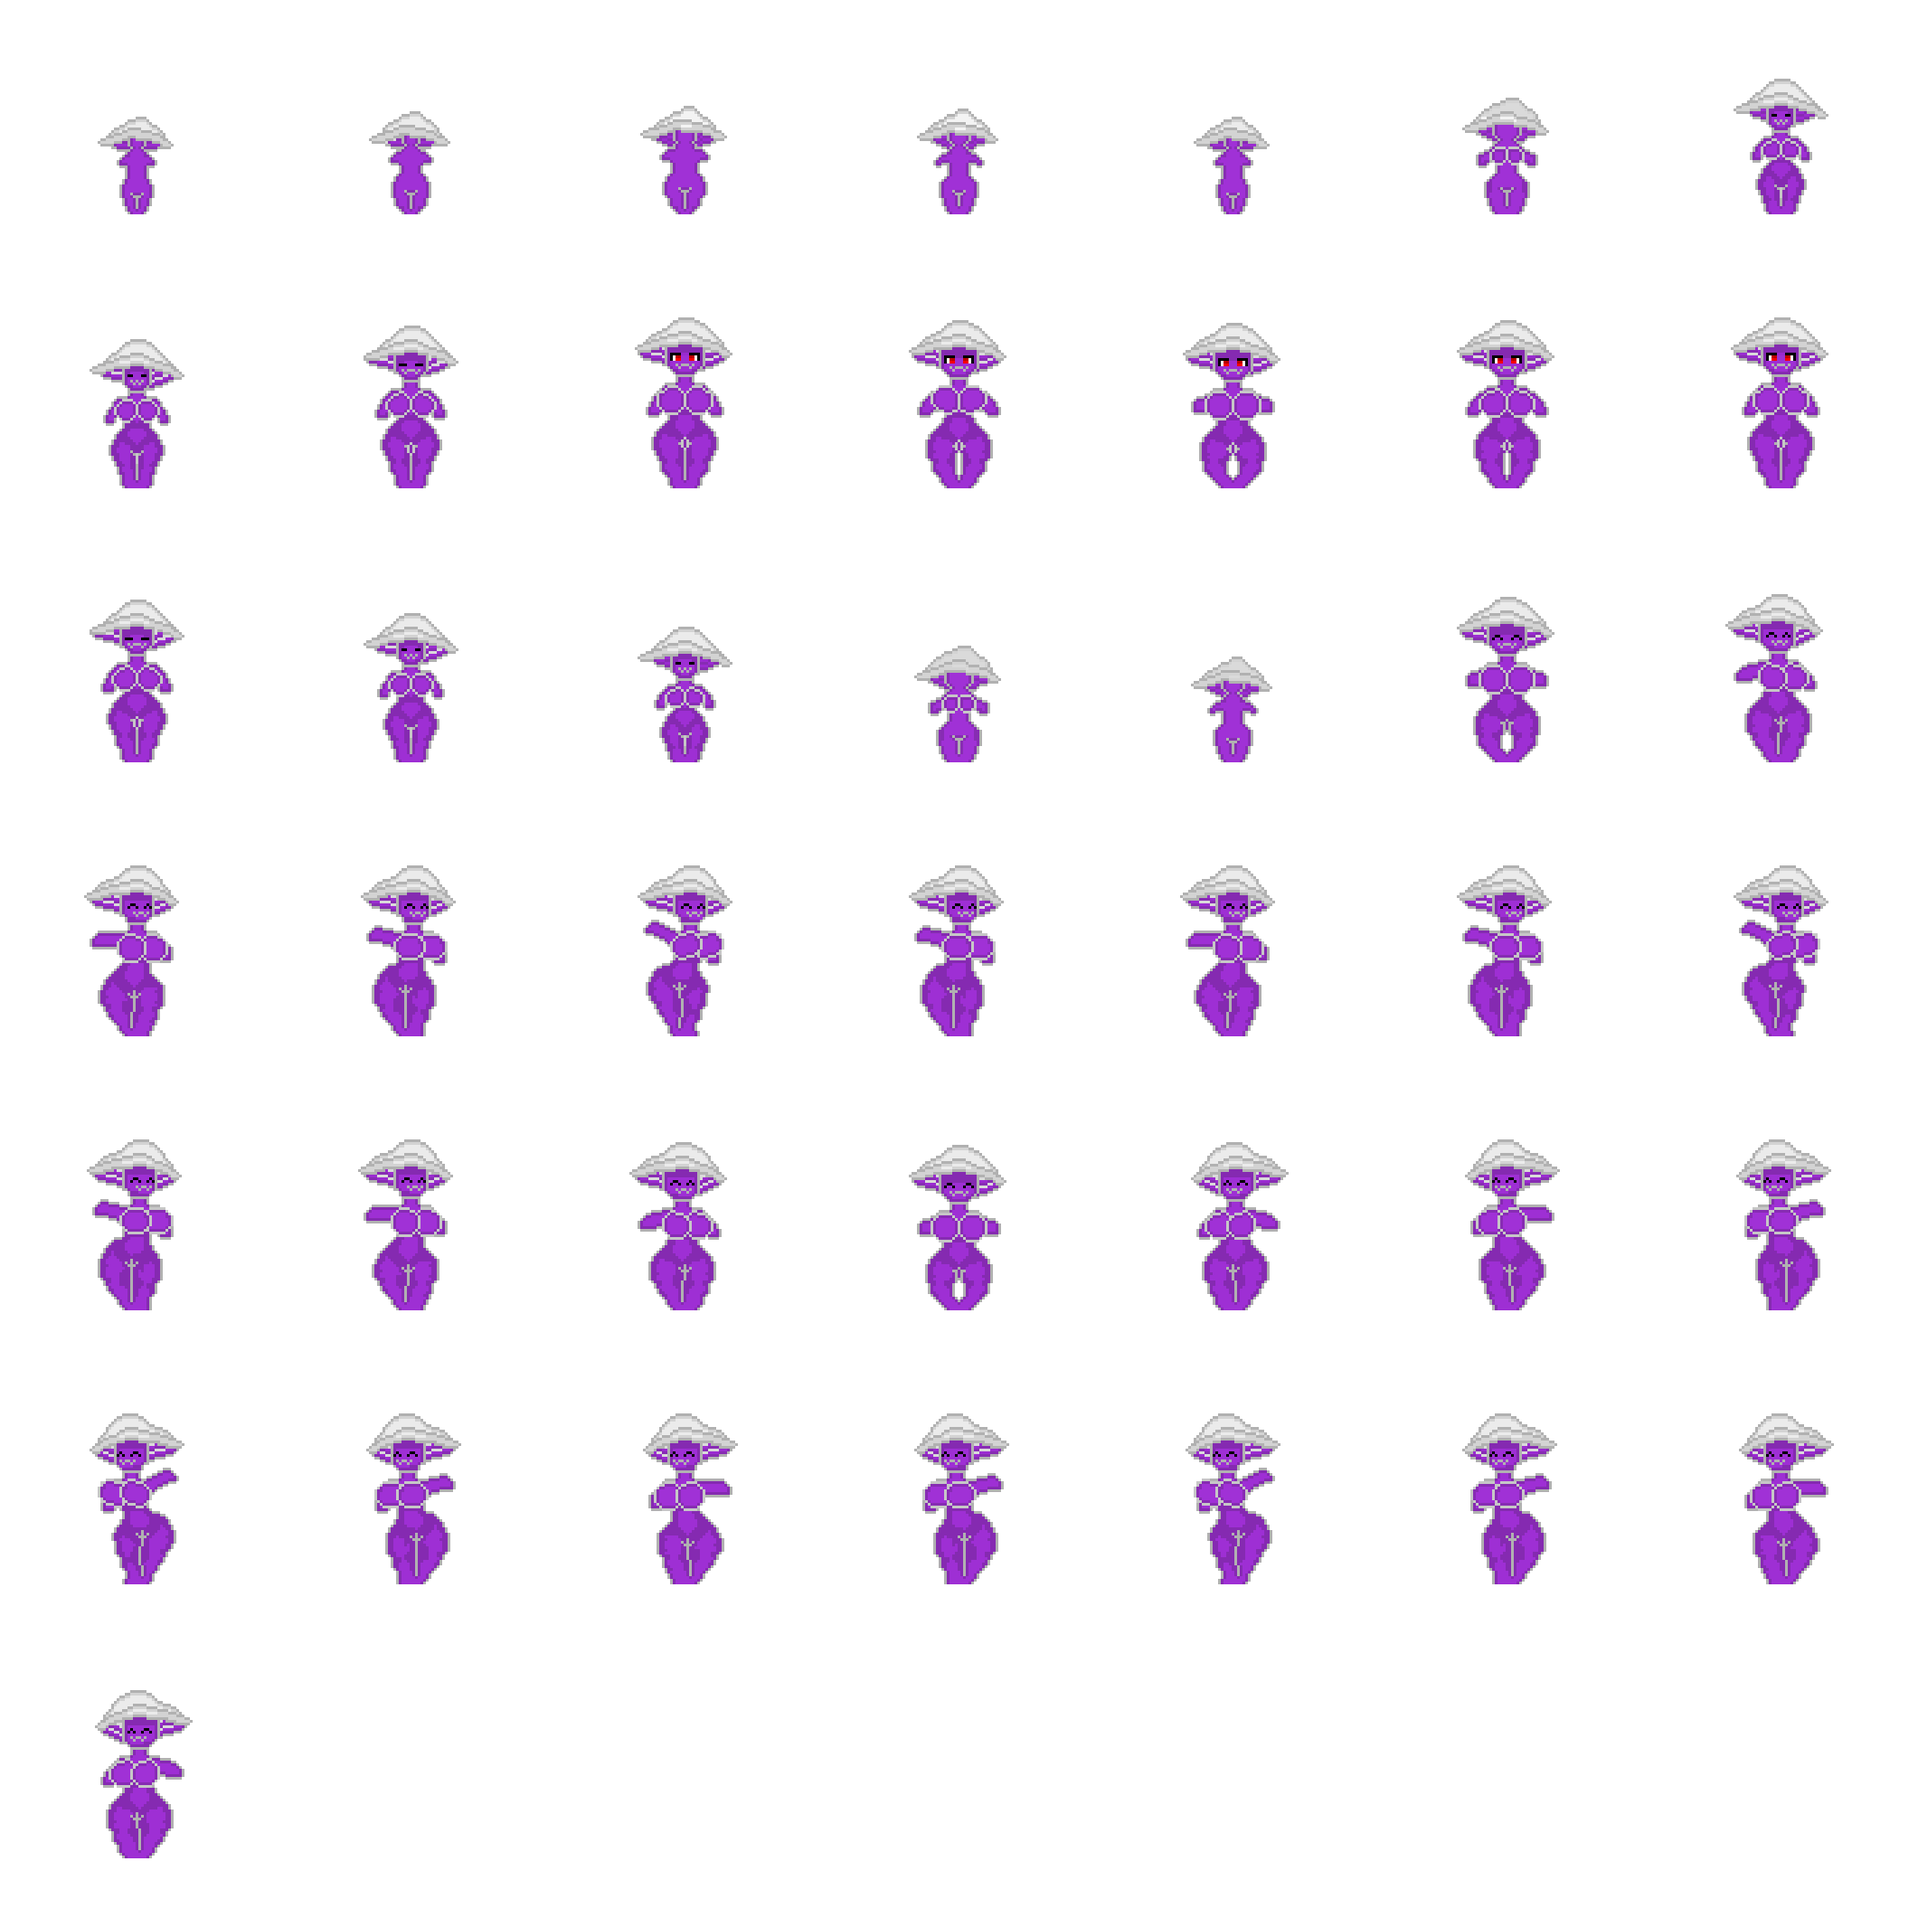
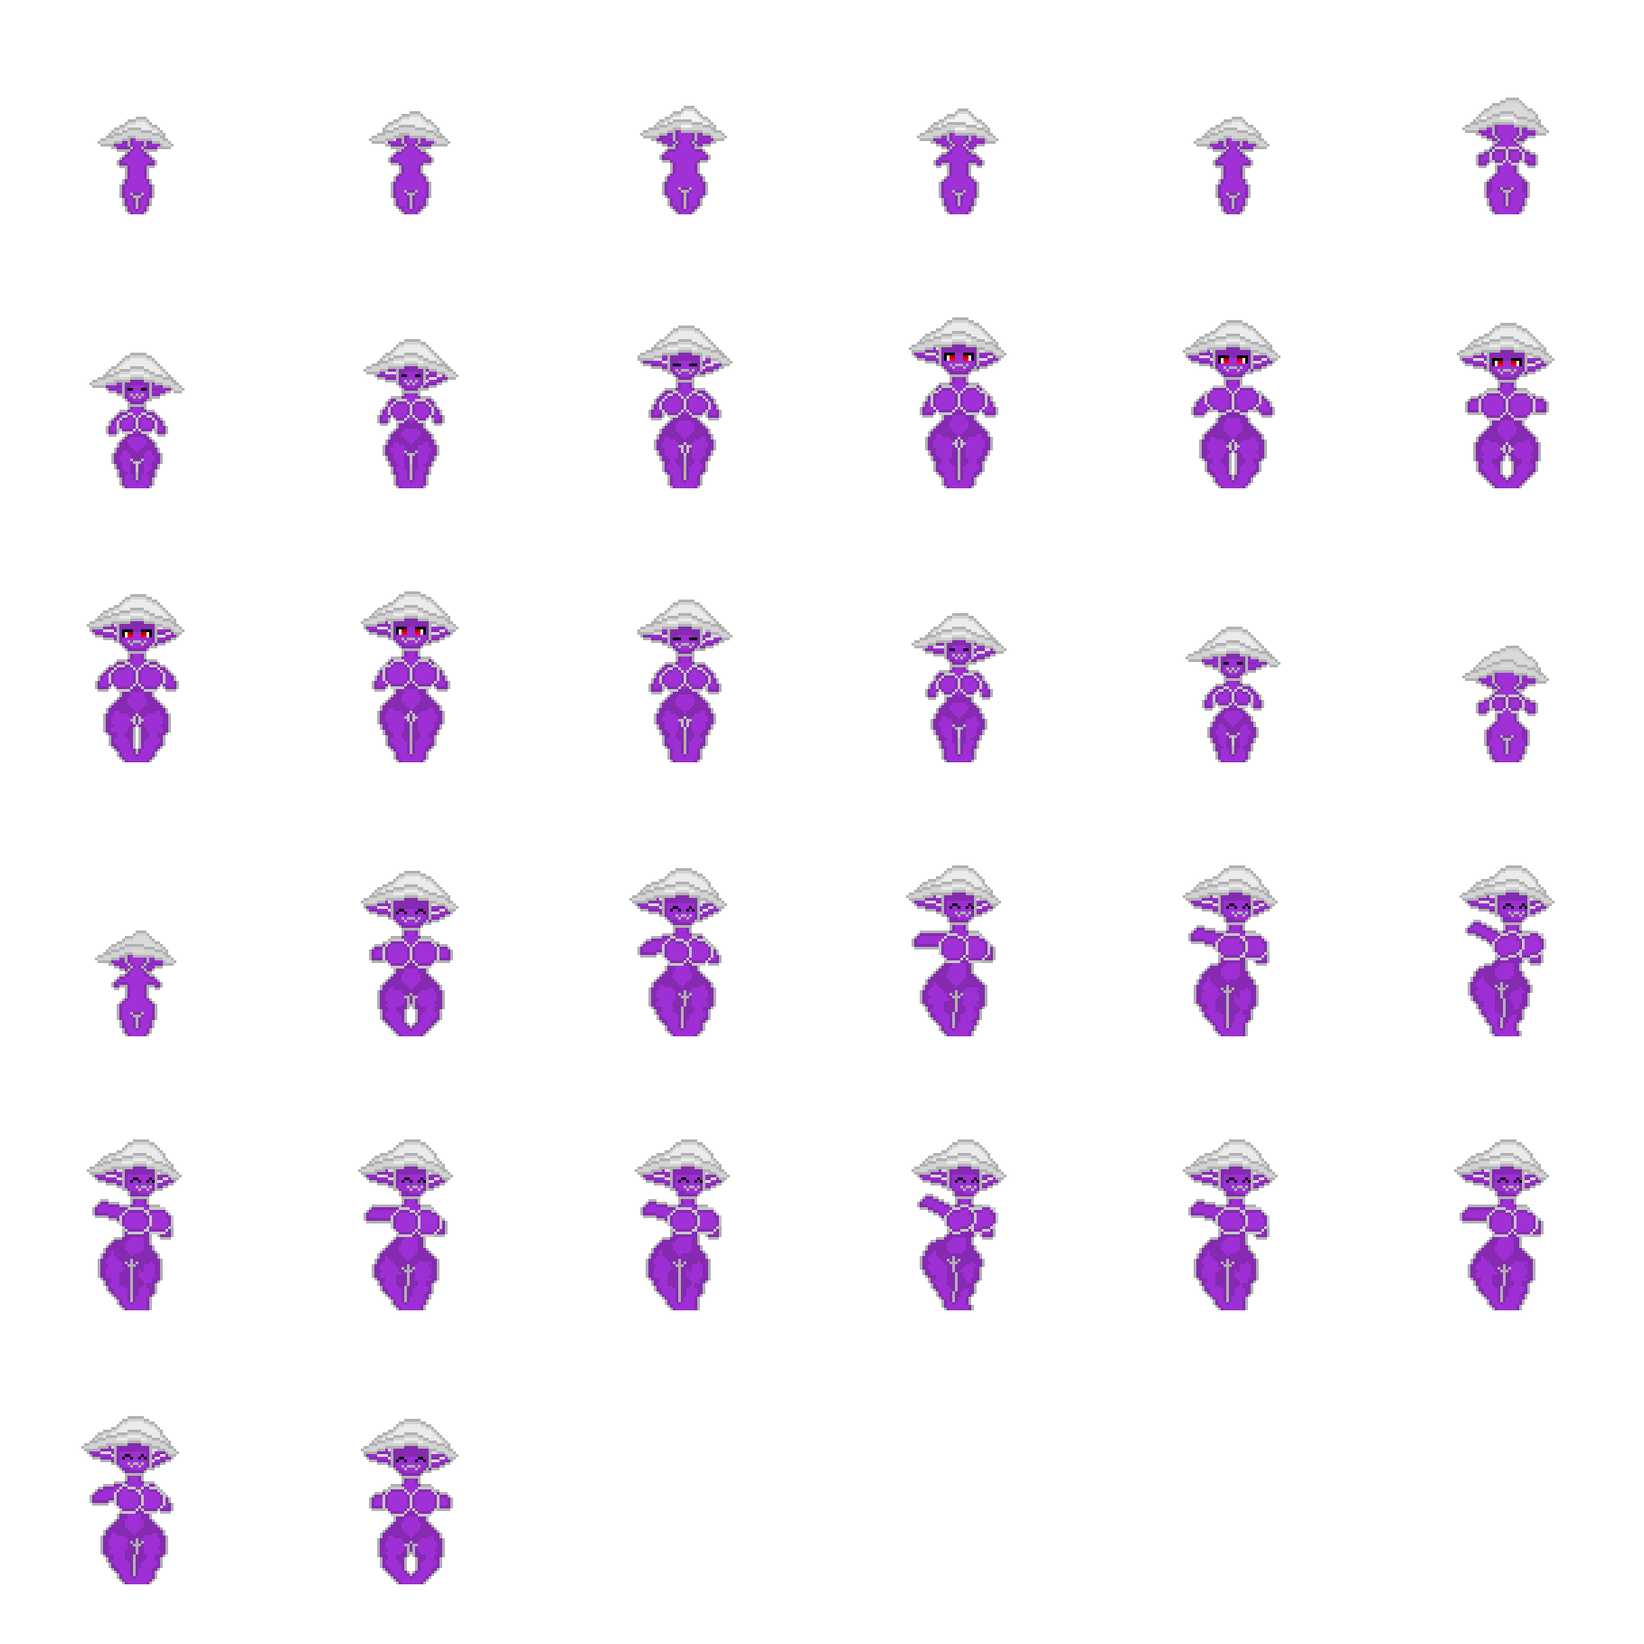
added male mushroom sprite.

diff --git a/scripts/enemyScripts/lockwood/mushroom.js b/scripts/enemyScripts/lockwood/mushroom.js
@@ -5,7 +5,28 @@ class mushroom extends enemy {
     
     constructor(scene, xPos, yPos, sex, id,inSafeMode) {
         //super() calls the constructor() from the parent class we are extending
-        super(scene, xPos, yPos, sex, id, 20, 'mushroom');
+       
+
+         if(scene.preferance === 0){
+            super(scene, xPos, yPos, sex, id, 20, 'mushroom-male-tf');
+            this.enemySex = 0;
+        }else if(scene.preferance === 1){
+            super(scene, xPos, yPos, sex, id, 20, 'mushroom-female-tf');
+            this.enemySex = 1;
+        
+        //if the pref is either, then we randomly pick a sex for the bat.
+        
+        }else{
+            let randomPref = Math.floor((Math.random() * 2));
+            console.log('randomPref',randomPref);
+            if(randomPref === 0){
+                super(scene, xPos, yPos, sex, id, 20, 'mushroom-male-tf');
+                this.enemySex = 0;
+            }else{
+                super(scene, xPos, yPos, sex, id, 20, 'mushroom-female-tf');
+                this.enemySex = 1;
+            }
+        }
 
         // sets gravity 
         this.body.setGravityY(600); 
@@ -29,8 +50,15 @@ class mushroom extends enemy {
          this.transferSpeed = 300;
           
         //defines Enemy animations based on the players sex.
-        if (sex === 0) {
-           
+        if (this.enemySex === 0) {
+            this.anims.create({ key: 'hiding', frames: this.anims.generateFrameNames('mushroom-male-tf', { start: 0, end: 3 }), frameRate: 7, repeat: -1 });
+            this.anims.create({ key: 'popOut', frames: this.anims.generateFrameNames('mushroom-male-tf', { start: 3, end: 8 }), frameRate: 12, repeat: 0 });
+            this.anims.create({ key: 'mushIdle', frames: this.anims.generateFrameNames('mushroom-male-tf', { start: 9, end: 12 }), frameRate: 7, repeat: -1 });
+            this.anims.create({ key: 'becomeHidden', frames: this.anims.generateFrameNames('mushroom-male-tf', { start: 13, end: 18 }), frameRate: 12, repeat: 0 });
+            this.anims.create({ key: 'shroomDanceStart', frames: this.anims.generateFrameNames('mushroom-male-tf', { start: 19, end: 27 }), frameRate: 15, repeat: 0 });
+            this.anims.create({ key: 'shroomDanceEnd', frames: this.anims.generateFrameNames('mushroom-male-tf', { start: 27, end: 31 }), frameRate: 15, repeat: 0 });
+            this.anims.create({ key: 'shroomDanceStart', frames: this.anims.generateFrameNames('mushroom-male-tf', { start: 19, end: 27 }), frameRate: 15, repeat: 0 });
+            this.anims.create({ key: 'shroomDanceIdle', frames: this.anims.generateFrameNames('mushroom-male-tf', { start: 19, end: 31 }), frameRate: 15, repeat: -1 });
         }else{
             this.anims.create({ key: 'hiding', frames: this.anims.generateFrameNames('mushroom-female-tf', { start: 0, end: 3 }), frameRate: 7, repeat: -1 });
             this.anims.create({ key: 'popOut', frames: this.anims.generateFrameNames('mushroom-female-tf', { start: 3, end: 8 }), frameRate: 12, repeat: 0 });

diff --git a/scripts/sceneScripts/sceneHirarchy/G6PreloadEnemys.js b/scripts/sceneScripts/sceneHirarchy/G6PreloadEnemys.js
@@ -233,6 +233,7 @@ class G6PreloadEnemys extends G5InitNPCs{
         tempSceneRef.load.spritesheet('mycelium', 'assets/gameObjects/mycelium.png',{frameWidth: 99, frameHeight: 99 });
         tempSceneRef.load.spritesheet('sporeCloud', 'assets/gameObjects/sporeCloud.png',{frameWidth: 219, frameHeight: 219 });
         tempSceneRef.load.spritesheet('mushroom-female-tf', 'assets/enemys/mushroom-female-tf.png',{frameWidth: 303, frameHeight: 303 });
+        tempSceneRef.load.spritesheet('mushroom-male-tf', 'assets/enemys/mushroom-male-tf.png',{frameWidth: 303, frameHeight: 303 });
 
       },
       mushroomDefeats: function mushroomsFunction() {

diff --git a/scripts/enemyScripts/lockwood/tiger.js b/scripts/enemyScripts/lockwood/tiger.js
@@ -17,12 +17,12 @@ class tiger extends enemy {
         }else{
             let randomPref = Math.floor((Math.random() * 2));
             console.log('randomPref',randomPref);
-            if(randomPref === 1){
+            if(randomPref === 0){
                 super(scene, xPos, yPos, sex, id, 100, 'tigerMale');
-                this.enemySex = 1;
+                this.enemySex = 0;
             }else{
                 super(scene, xPos, yPos, sex, id, 100, 'tigerFemale');
-                this.enemySex = 0;
+                this.enemySex = 1;
             }
         }
         

diff --git a/scripts/sceneScripts/sceneHirarchy/G8InitEnemys.js b/scripts/sceneScripts/sceneHirarchy/G8InitEnemys.js
@@ -173,7 +173,7 @@ class G8InitEnemys extends G7EnemyCollisions{
         tempSceneRef.earieShadows.add(earieS);
       },
 
-      mushroom: function earieShadowFunction(startX, startY, playerSex,inSafeMode) {
+      mushroom: function earieShadowFunction(startX, startY, playerSex,inSafeMode,soundSFX) {
         let mush = new mushroom(tempSceneRef, startX, startY, playerSex,tempSceneRef.enemyId,inSafeMode);
         tempSceneRef.enemyId++;
         console.log("created mush id: ",mush.enemyId);
